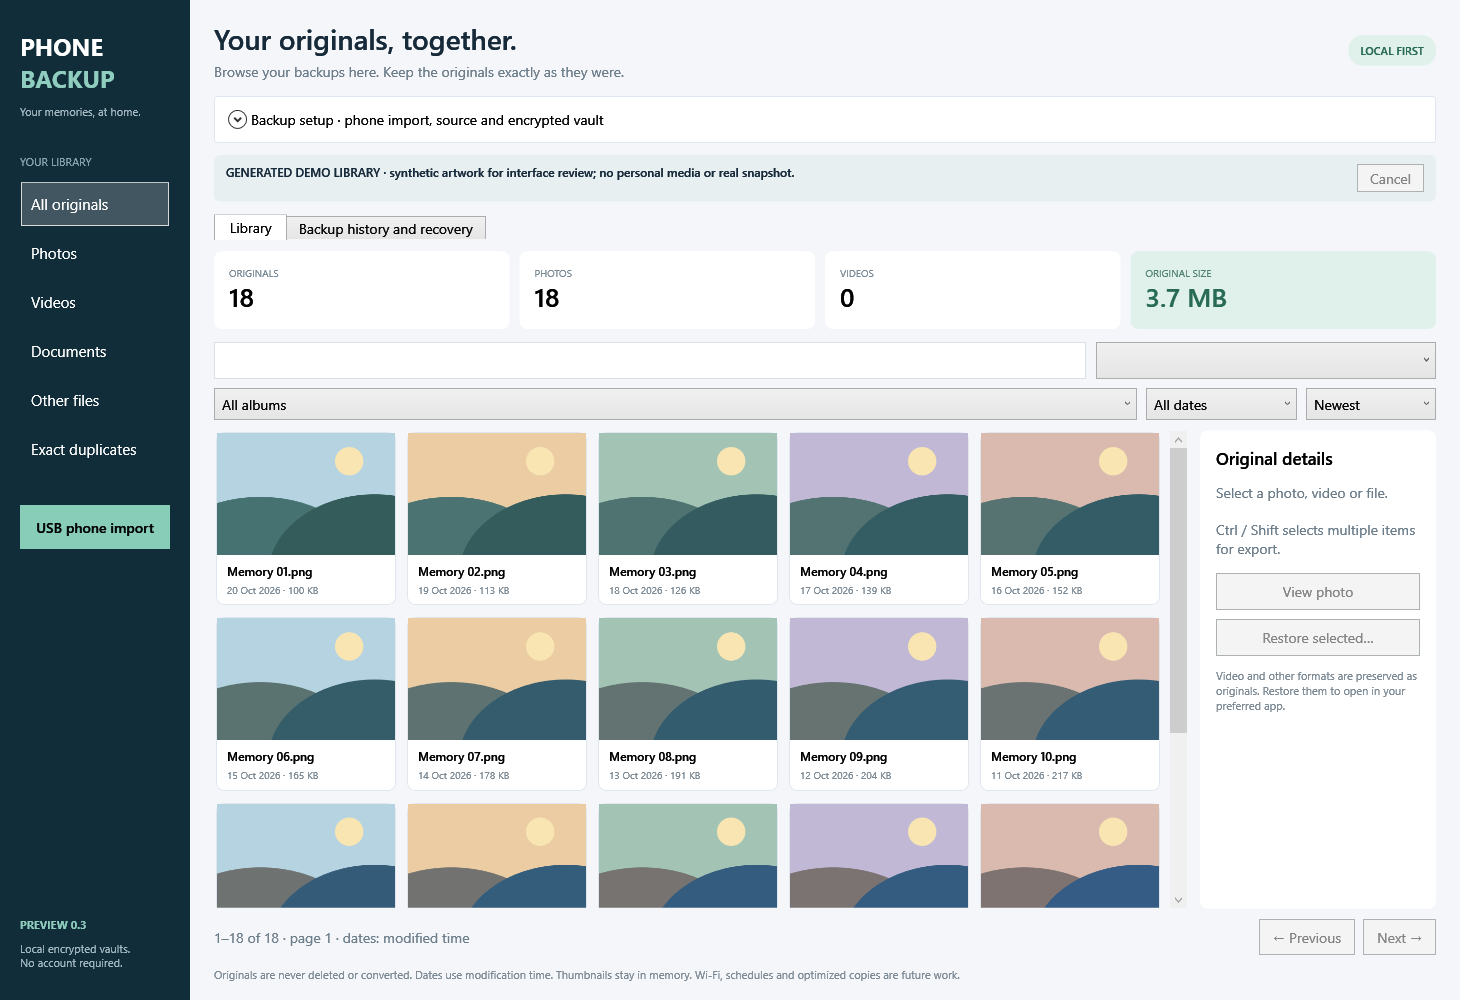
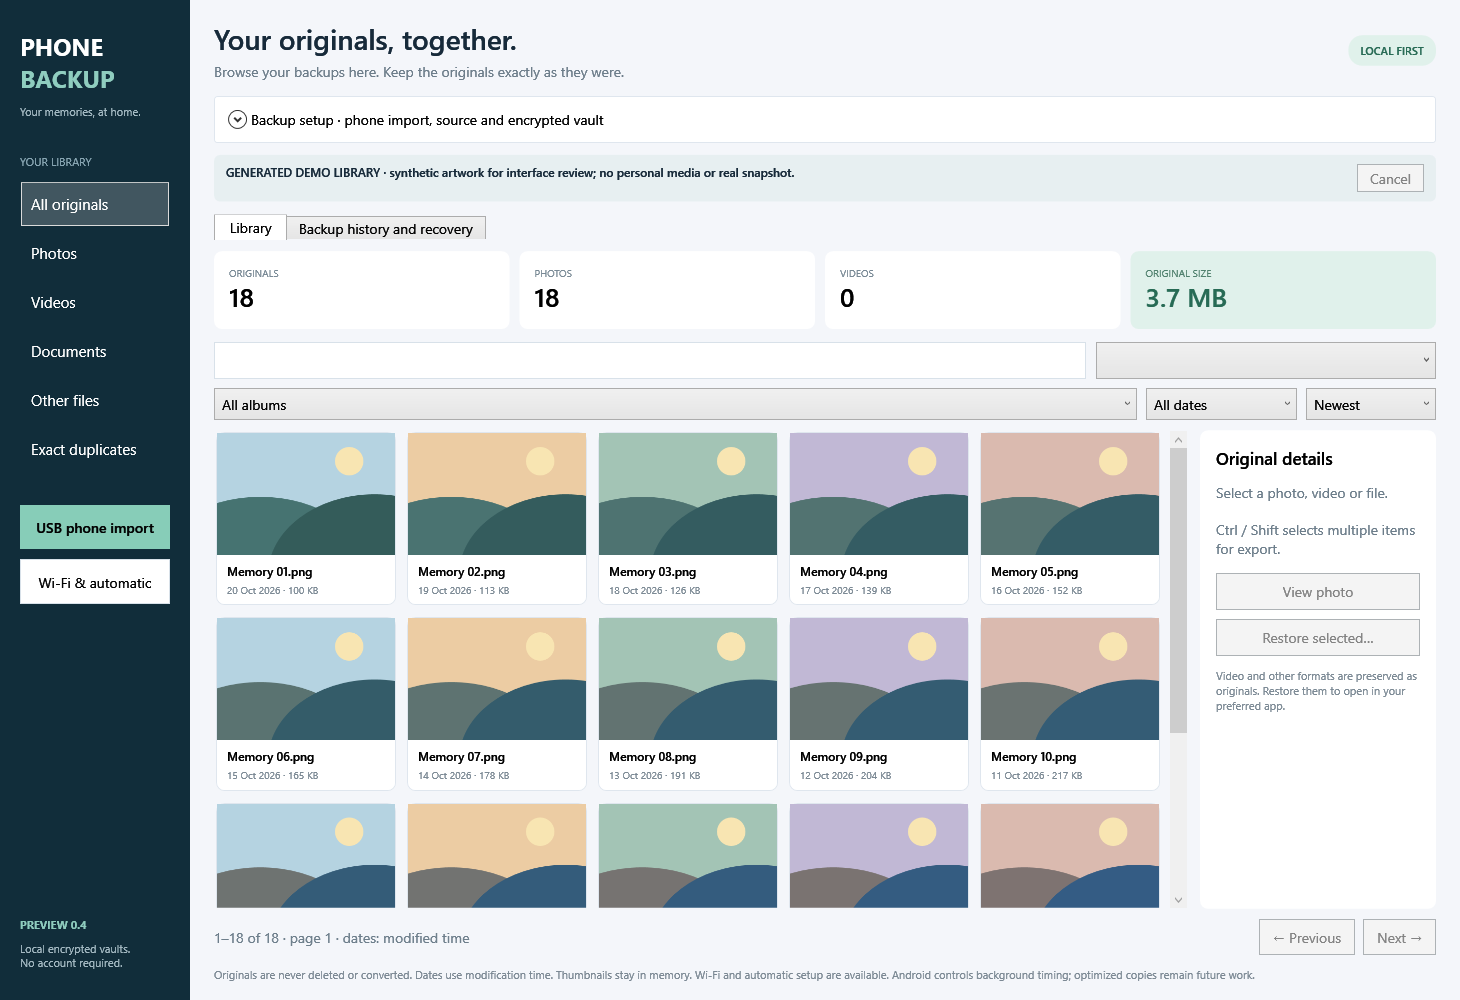
Document Wi-Fi preview evidence and remaining device tests

Changed region(s): [[0.4932, 0.961, 0.863, 0.992], [0.0, 0.558, 0.1233, 0.62]]

diff --git a/README.md b/README.md
@@ -2,7 +2,7 @@
 
 A Windows-first Android backup product in development: preserve original photos, videos and selected files on your own PC, with a clear way to verify and restore them.
 
-**Version 0.3 developer preview.** Product implementation is private. This public showcase describes measured engineering progress without distributing personal media or proprietary source.
+**Version 0.4 developer preview.** Product implementation is private. This public showcase describes measured engineering progress without distributing personal media or proprietary source.
 
 ![Library interface — explicitly labeled generated demo artwork, no personal media](assets/windows-preview.png)
 
@@ -16,6 +16,10 @@ The image shows the implemented library UI with generated layout-review artwork,
 - Read-only USB phone folder/file selection with common-folder shortcuts and recursive scanning.
 - Managed USB import store: immutable generations, verified local reuse, durable checkpoints and file-level resume. A separate worker process can be stopped on cancellation or inactivity rather than blocking the interface on Windows USB calls.
 - Combined USB import → encrypted backup → library workflow using a pinned restic engine. Stored originals are checksum-verified before a snapshot appears as complete; older versions survive source edits/deletion.
+- Native Android companion and Windows HTTPS receiver: one-use QR pairing, exact certificate pinning, per-device revocation, on-phone SHA-256, missing-content uploads, reusable completed uploads and verified encrypted snapshots. Actual Java network classes passed a Windows receiver interoperability test; physical Android Wi-Fi acceptance is pending.
+- Opt-in account-protected unattended vault unlock, tray/sign-in setup, Android Wi-Fi scheduling and known USB reconnection selection. Android controls background timing; the PC must be awake. Setup includes clear revocation and a Private-profile/LocalSubnet firewall helper.
+
+![Wi-Fi setup before pairing — no credentials or personal data](assets/wifi-setup.png)
 
 ## Evidence and practical limits
 
@@ -24,10 +28,12 @@ The image shows the implemented library UI with generated layout-review artwork,
 | Core/library integration | 24 passed | Encryption, retention, safe/selected restore, cancellation, hostile metadata, cache defense, filters and corruption detection |
 | USB/store/worker fixtures | 24 passed | Recursion, strict repeat reuse, edits with unchanged size/time, journals, orphan recovery, cancellation and hung-process termination |
 | Automated UI control smoke | 12 passed | Real encrypted synthetic library: thumbnails, bounded pages, search/filters/duplicates, details/export, EXIF and detached thumbnail buffers |
+| LAN receiver and actual Java client interoperability | 25 passed | Pinning/pairing boundaries, authorization, retries, corruption repair, retained revisions, restart, exact-byte restore and actual JVM-to-Windows protocol execution |
+| Android unit checks / build | 9 passed; APK built | Pairing/path/hash boundaries. Lint: 0 errors, 10 warnings. This does not validate Android permissions, Keystore or WorkManager execution on a phone |
 | Pixel 7 hardware proof | Passed for 3 originals | Controlled worker cancellation, checkpoint resume, repeat verification/reuse, encrypted backup and full/selected restore |
 | Physical cable pull / full Camera-library copy | Pending | Not established by a subprocess stop or a small sample |
 
-The user confirmed recovery in the previous preview. New 0.3 interactive acceptance, varied devices, power loss, disk full, large-library throughput, codec isolation and consumer-release hardening remain open. Guardrails (20k selected files, 10k entries per directory, depth 32) are not a production scale certification.
+The user confirmed recovery in an earlier preview. Physical Pixel 7 / Android 17 companion installation, permission/pairing, Wi-Fi transfer, locked-phone/Doze/overnight behavior and Windows startup/firewall acceptance remain pending. Varied devices, power loss, disk full, large-library throughput, codec isolation and consumer-release hardening remain open. Guardrails (20k selected files, 10k entries per directory, depth 32) are not a production scale certification.
 
 ## Measured performance
 
@@ -37,9 +43,9 @@ The improvement removes one restic process per original by verifying a single bo
 
 ## Explicit tradeoffs
 
-The USB store contains **unencrypted** PC originals, prior generations and checkpoints; the vault is a separate encrypted copy. The UI discloses this. No automatic phone cleanup, duplicate deletion or staging prune occurs.
+The USB and Wi-Fi stores contain **unencrypted** PC originals, prior generations and checkpoints; the vault is a separate encrypted copy. The UI discloses this. No automatic phone cleanup, duplicate deletion or staging prune occurs.
 
-Strict repeat runs freshly read unchanged phone files once, then reuse verified PC data. New/changed originals are read twice. MTP has no trusted remote content hash, so the app does not claim safe metadata-only skipping or zero-traffic repeat backups. Full new PC generations consume additional staging space. A companion app with on-device hashing is a later efficiency milestone.
+Strict USB repeat runs freshly read unchanged phone files once; new/changed originals are read twice. The Wi-Fi companion hashes originals on the phone and uploads only missing/damaged content. It still freshly hashes all selected originals each run; phone I/O/battery and large-library profiling remain open. Full new PC generations consume additional staging space. No metadata-only content skip is claimed.
 
 Gallery metadata/thumbnails stay in memory, with bounded pages/cache and detached display buffers. Native media parsing still needs stronger isolation. Dates mean modification time, not capture time; albums currently map original folders. The library is scoped to the selected verified backup version, not an aggregate across all devices/backup sets.
 
@@ -47,10 +53,10 @@ See [architecture](ARCHITECTURE.md) and [development record](DEVELOPMENT.md).
 
 ## Next milestones
 
-1. User acceptance of 0.3, real cable disconnect/reconnect and larger-library profiling.
-2. Better staging/storage efficiency and stronger recovery/media/process hardening.
-3. Android companion with on-device hashing and authenticated local Wi-Fi transfers.
-4. Recurring backups, richer media support and persistent custom collections.
+1. Small Pixel Wi-Fi installation/pairing/backup/restore acceptance, then real cable reconnect and lock/Doze/overnight/reboot tests.
+2. Measure phone battery/hash costs and larger-library throughput; reduce staging/storage costs.
+3. Receiver, recovery and media/process hardening; signing, updates and unattended recovery.
+4. Richer media support and persistent custom collections.
 5. Optional optimized copies alongside originals, then release/signing/dependency review and external beta.
 
 Cloud, household features and iPhone remain future scope. No consumer download or release date is promised here.

diff --git a/ARCHITECTURE.md b/ARCHITECTURE.md
@@ -1,8 +1,10 @@
-# Current architecture — preview 0.3
+# Current architecture — preview 0.4
 
 ```mermaid
 flowchart LR
     Phone[Android / MTP] -->|read only| Worker[Isolated Windows USB worker]
+    Companion[Native Android companion] -->|Wi-Fi-bound pinned HTTPS| LAN[Authenticated PC receiver]
+    LAN -->|missing content only| Store
     UI[WPF desktop] -->|structured protocol| Worker
     Worker --> Scan[Recursive scan and strict verification]
     Scan --> Store[Plaintext managed PC store]
@@ -30,10 +32,16 @@ The backup core captures inventories inside encrypted snapshots, streams stored 
 
 The library indexes the selected verified snapshot in memory. Search, folder albums, modified dates, categories and checksum duplicates are metadata operations. Bounded thumbnail pages decode verified originals into detached display pixels, without persistent plaintext thumbnails/catalog. Media decoding and temporary inventory/secret handling still need production hardening.
 
+## Wi-Fi and automation
+
+One-use QR pairing pins the PC certificate and issues a device token; the phone never receives the vault passphrase. The PC stores protected token hashes, the phone encrypts its token with Android Keystore, and each side exposes revocation. Phone-side SHA-256 inventories and PC object rehashes decide which whole originals need transport. Immutable generations feed the same encrypted verification/recovery core; receipt alone does not indicate a verified backup.
+
+WorkManager requests Wi-Fi/battery-not-low periodic work, with optional charging. Android may defer work or impose quotas. Windows has opt-in per-account protected unlock, sign-in/tray/single-instance behavior and known USB reconnect polling after a manual selection. The published app locates its private runtime for startup. Private-profile/LocalSubnet firewall rules are an explicit setup action. The PC must be awake; there is no SSID allowlist, cloud relay or mobile-data fallback for bound backup connections.
+
 ## Tradeoffs
 
 - Plaintext staging is explicitly retained; encrypted direct streaming/staging is future work.
 - New generations use local copies rather than hardlinks, preserving independence but consuming disk space.
-- Repeat USB verification still reads all selected phone bytes once. Companion-side hashes can improve that later.
+- Repeat USB verification still reads all selected phone bytes once. Wi-Fi skips unchanged network uploads but currently hashes all selected phone originals each run; battery/scale profiling remains necessary.
 - Multi-file phone state is not an atomic snapshot. A physical cable-pull test is separate from killing a worker.
 - restic is an evaluated storage integration, not a guarantee for every future cloud/mobile requirement.

diff --git a/DEVELOPMENT.md b/DEVELOPMENT.md
@@ -23,3 +23,11 @@ Added recursive selections, common phone folders, immutable managed import gener
 Replaced per-file restic verification processes with a streamed archive check while preserving inventory/length/checksum/source-consistency requirements. A 60-small-file local backup fixture improved from 46.143s (0.1) to 3.261s (0.3); this does not measure phone/large-library throughput.
 
 Validated 24 core/library cases, 24 USB/store/worker cases and 12 synthetic-media UI-control cases. A real three-original Pixel test passed controlled worker cancellation, resume, verified repeat reuse, encryption and full/selected restore. No phone writes or personal media published. New human acceptance, physical cable pull and larger libraries remain pending.
+
+## 28 October 2026 — Wi-Fi companion and unattended setup, 0.4
+
+Built a native Android companion and separate PC HTTPS receiver. Added one-use QR pairing, certificate pinning, protected credentials, per-device revocation, on-phone checksums, missing-object uploads, whole-file retries, immutable PC generations and verified encrypted snapshot receipts. Added explicit account-protected unattended unlock, tray/sign-in/single instance and known USB selection polling. Android traffic is bound to Wi-Fi; local files use scoped media/folder permissions. Android controls periodic timing and the PC must be awake.
+
+24 core, 24 USB, 25 LAN/JVM interoperability and 12 packaged UI checks passed, plus nine Android unit checks. Android debug APK builds; lint has zero errors and ten reviewable warnings. The actual Java client ran against the Windows receiver with generated Unicode/empty/binary originals, pinned TLS, repeat/revoke and byte-checked restore. A real Windows handshake exposed an unsupported ephemeral-key mode, which was corrected and retested. A packaged-host trace confirmed relative private-runtime loading without DOTNET_ROOT environment variables.
+
+Physical Pixel 7 Android 17 install/permissions, Wi-Fi/Keystore/background execution, real firewall/startup acceptance and overnight/battery/scale tests remain next. This is an engineering preview, not a consumer release. Product source, debug signing keys and personal media remain outside this public repository. No activity was fabricated or backdated.
